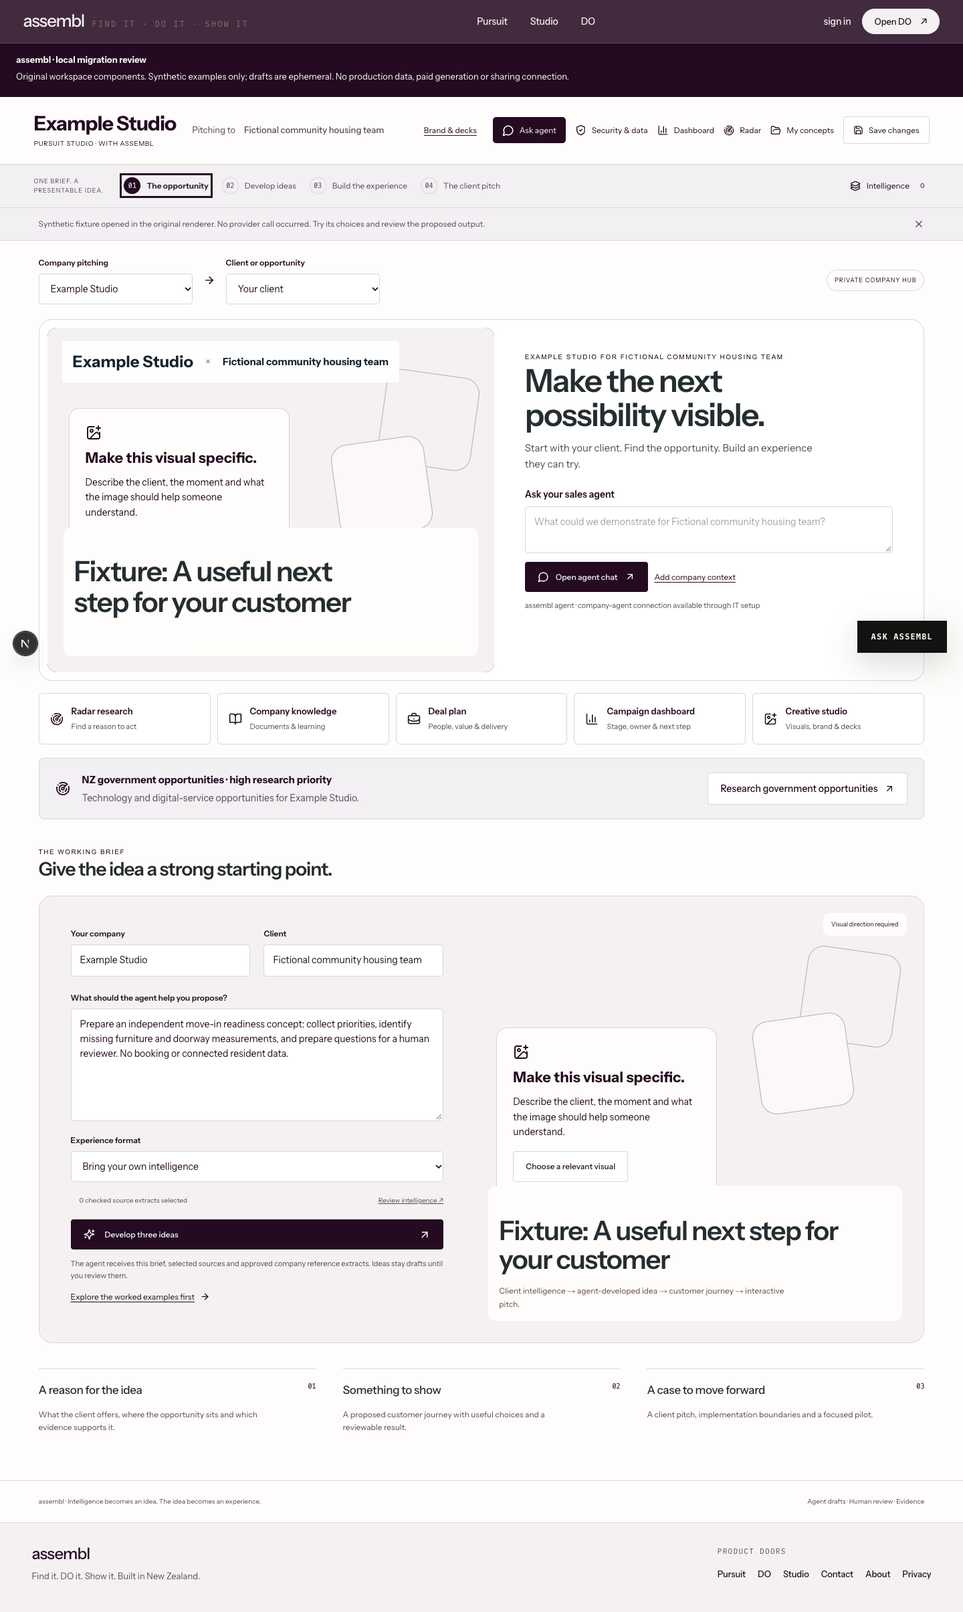
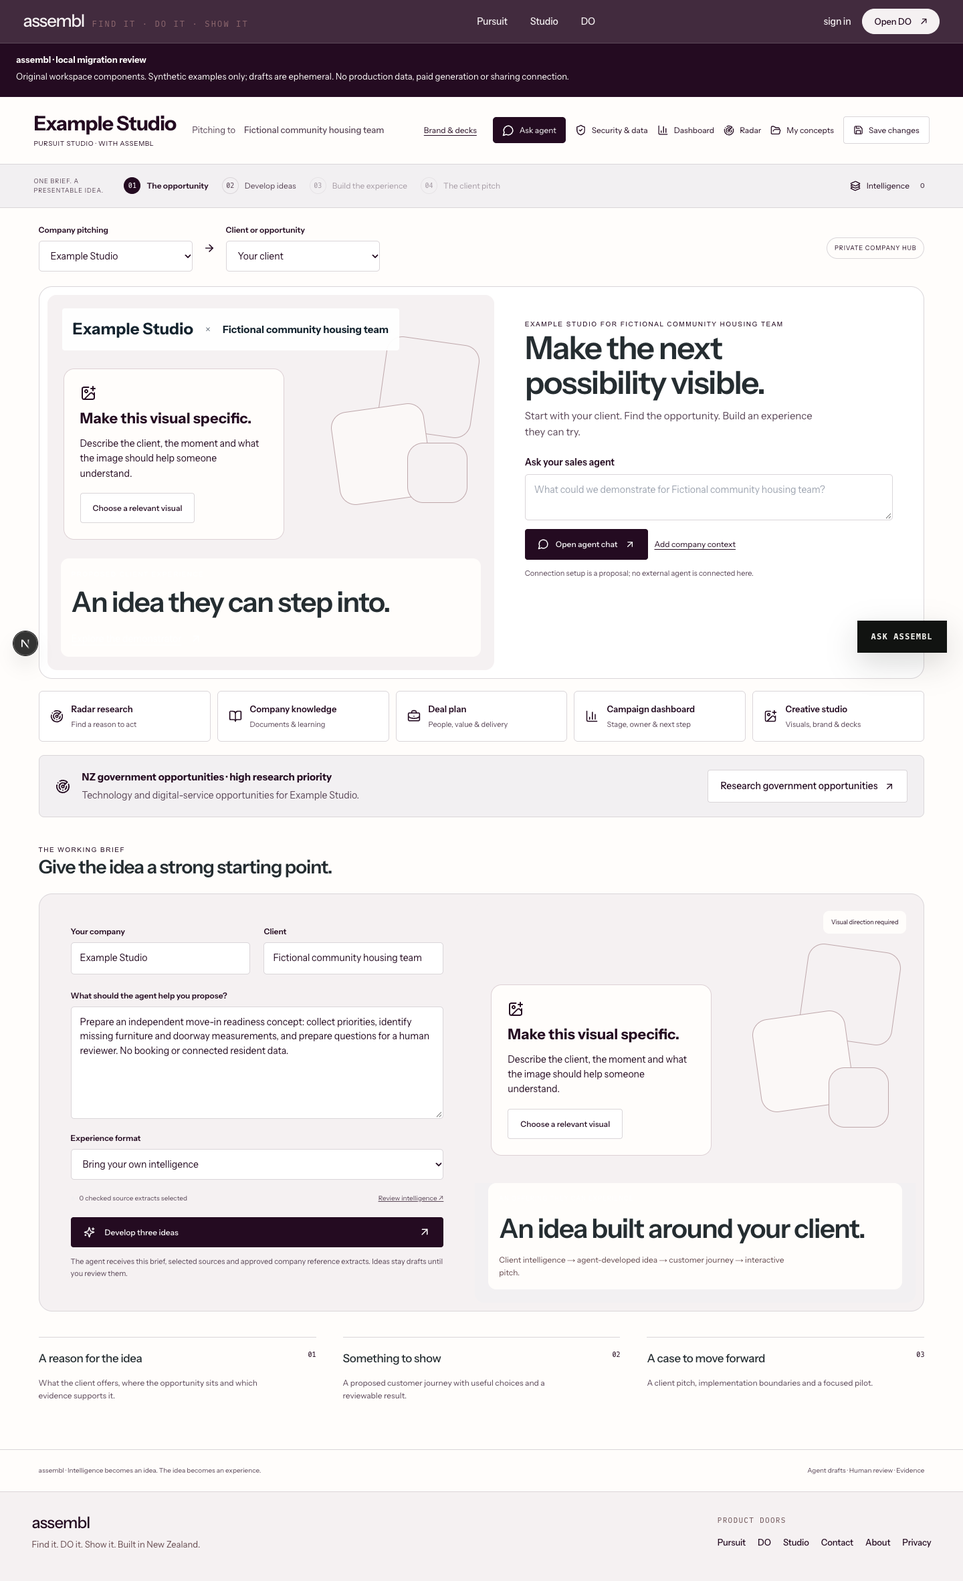
Record audited Studio activation gates and final private visual proof

diff --git a/components/client-hub-migration/original/app/hub/concept-studio.tsx b/components/client-hub-migration/original/app/hub/concept-studio.tsx
@@ -85,7 +85,7 @@ export default function ConceptStudio({localPreview=false,studioCompany,ownerMod
   }catch(x){setError((x as Error).message);}finally{agentLock.current=false;setBusy("");}
  }
  function addOwnerIdea(){const concept=newOwnerIdea(h);engine({...e,concepts:[...e.concepts,concept].slice(-6),selected:concept.id});setStep(2);setCreative("copy");setPanel("creative");setNotice("Your working idea is ready to edit. It is an owner-authored draft, not generated output.");}
- function openExample(concept:Concept){edit(withConcept(h,concept));setStep(2);setNotice(concept.origin==="worked example"?"Worked example opened. Use Build with agent to develop a fresh journey from this concept.":"Agent idea opened in the existing interaction format. Build with agent to write its specific customer journey.");}
+ function openExample(concept:Concept){edit(withConcept(h,concept));setStep(2);setNotice(concept.origin==="owner draft"?"Your owner-authored idea opened in the interactive renderer. No agent call occurred.":concept.origin==="worked example"?"Worked example opened. Use Build with agent to develop a fresh journey from this concept.":"Agent idea opened in the existing interaction format. Build with agent to write its specific customer journey.");}
  async function loadInbox(selected?:string){if(localPreview){setPanel("sources");return;}try{const d=await read<{items:InboxItem[]}>(await fetch("/api/inbox"));setInbox(d.items);setPanel("sources");if(selected){const item=d.items.find(x=>x.id===selected);if(item)importSignal(item,true);else setError("The selected intelligence item is unavailable.");}}catch(x){setError((x as Error).message);}}
  function importSignal(item:InboxItem,asPursuit=false){let old=current.current;if(asPursuit){const target=inboxStartingPoint(item,old.seller);if(studioCompany&&companyIdentity(target.seller)!==companyIdentity(companies[studioCompany].name)){setError("This opportunity belongs to a different company studio.");return;}old=initial(target.sector,target.seller);old.buyer=(item.organisation||"Buyer to confirm").slice(0,120);old.design.buyer=old.buyer;old.name=item.title.slice(0,140);old.sources=[];old.engine={...old.engine!,brief:"",concepts:[],selected:""};setId(undefined);setRevision(0);setStep(0);}const en=old.engine||starterEngine("custom");let sources=old.sources;if(item.sourceUrl&&/^https?:\/\//i.test(item.sourceUrl)&&sources.length<40&&!sources.some(s=>s.url===item.sourceUrl))sources=[...sources,{id:`signal-${item.id}`,title:item.title.slice(0,180),url:item.sourceUrl,claim:(item.summary||item.hypothesis||"Review the source before using the claim.").slice(0,900),status:"inference" as const,checked:"Review needed",include:false}];edit({...old,sources,engine:{...en,brief:(en.brief+"\n\nImported intelligence: "+item.title+"\n"+(item.summary||"")+"\n"+(item.hypothesis||"")).slice(0,6000)},privateNotes:(old.privateNotes+"\n"+item.title+"\n"+(item.summary||"")).slice(0,6000)});setNotice("Intelligence added to this brief. Check the source and mark any verified extract as a source before agent use.");}
  function addSource(){try{const next=hubSchema.parse({...h,sources:[...h.sources,{id:crypto.randomUUID(),title:sourceTitle,url:sourceUrl,claim:sourceClaim,status:"inference",checked:"Review needed",include:false}]});edit(next);setSourceTitle("");setSourceUrl("");setSourceClaim("");}catch{setError("Add a source title, valid web link and a short extract. The limit is 40 sources.");}}
@@ -115,7 +115,7 @@ export default function ConceptStudio({localPreview=false,studioCompany,ownerMod
   {legacy?<section className="cs-content"><h1>Your earlier pursuit is preserved.</h1><p>This draft uses the earlier journey editor. Open it there, or start a new client concept in this studio.</p><div className="cs-actions"><a className="cs-primary" href={`/hub?view=details&id=${id}`}>Open the saved pursuit</a><button className="cs-secondary" onClick={()=>fresh("grocery")}>Start a client concept</button></div></section>:<>
   {step===0&&<section className="cs-content ep-opening">
    <div className="ep-context-picker"><label>Company pitching<select aria-label="Company pitching" hidden={!!studioCompany} value={company} disabled={!!busy} onChange={v=>switchCompany(v.target.value as CompanyKey)}>{(Object.keys(companies) as CompanyKey[]).filter(key=>!ownerMode||key==="custom"||key==="assembl").map(key=><option key={key} value={key}>{key==="custom"&&company==="custom"?h.seller:companies[key].name}</option>)}</select>{studioCompany&&<strong>{companies[studioCompany].name}</strong>}</label><ArrowRight size={18}/><label>Client or opportunity<select aria-label="Client or opportunity" value={e.sector} disabled={!!busy} onChange={v=>switchClient(v.target.value as Sector)}>{availableClients.map(s=><option value={s} key={s}>{clients[s].name}</option>)}</select></label><span className="cs-label">{localPreview?"DEVICE PREVIEW":"PRIVATE COMPANY HUB"}</span></div>
-   <div className="ep-hero"><div className="ep-hero-visual"><ContextVisual onChoose={()=>{setCreative("image");setPanel("creative");}} src={artData||artKey} alt={h.design.frame.artwork?.alt||`Illustrative concept for ${h.buyer}`}/><div className="ep-hero-brand"><strong>{h.seller}</strong><span>×</span>{clientBrand?.logo?<PreviewImage src={clientBrand.logo} alt={h.buyer}/>:<b>{h.buyer}</b>}</div><div className="ep-hero-caption"><small>PROPOSED CLIENT EXPERIENCE</small><h2>{c?.title||e.concepts[0]?.title||"An idea they can step into."}</h2><button onClick={()=>c?setStep(2):e.concepts[0]?openExample(e.concepts[0]):setStep(1)}>Explore the demonstrator <ArrowUpRight size={18}/></button></div></div><div className="ep-hero-agent"><span className="cs-eyebrow">{h.seller} FOR {h.buyer}</span><h1>Make the next<br/>possibility visible.</h1><p>Start with your client. Find the opportunity. Build an experience they can try.</p><label htmlFor="hero-agent">Ask your sales agent</label><textarea id="hero-agent" rows={2} maxLength={6000} value={agentPrompt} onChange={v=>setAgentPrompt(v.target.value)} placeholder={`What could we demonstrate for ${h.buyer}?`}/><div className="cs-actions"><button className="cs-primary" onClick={()=>ownerMode?unavailable():setPanel("agent")}><MessageCircle size={17}/>Open agent chat<ArrowUpRight size={16}/></button><button className="cs-text" onClick={()=>{setLearning("");setPanel("knowledge");}}>Add company context</button></div><small>assembl agent · company-agent connection available through IT setup</small></div></div>
+   <div className="ep-hero"><div className="ep-hero-visual"><ContextVisual onChoose={()=>{setCreative("image");setPanel("creative");}} src={artData||artKey} alt={h.design.frame.artwork?.alt||`Illustrative concept for ${h.buyer}`}/><div className="ep-hero-brand"><strong>{h.seller}</strong><span>×</span>{clientBrand?.logo?<PreviewImage src={clientBrand.logo} alt={h.buyer}/>:<b>{h.buyer}</b>}</div><div className="ep-hero-caption"><small>PROPOSED CLIENT EXPERIENCE</small><h2>{c?.title||e.concepts[0]?.title||"An idea they can step into."}</h2><button onClick={()=>c?setStep(2):e.concepts[0]?openExample(e.concepts[0]):setStep(1)}>Explore the demonstrator <ArrowUpRight size={18}/></button></div></div><div className="ep-hero-agent"><span className="cs-eyebrow">{h.seller} FOR {h.buyer}</span><h1>Make the next<br/>possibility visible.</h1><p>Start with your client. Find the opportunity. Build an experience they can try.</p><label htmlFor="hero-agent">Ask your sales agent</label><textarea id="hero-agent" rows={2} maxLength={6000} value={agentPrompt} onChange={v=>setAgentPrompt(v.target.value)} placeholder={`What could we demonstrate for ${h.buyer}?`}/><div className="cs-actions"><button className="cs-primary" onClick={()=>ownerMode?unavailable():setPanel("agent")}><MessageCircle size={17}/>Open agent chat<ArrowUpRight size={16}/></button><button className="cs-text" onClick={()=>{setLearning("");setPanel("knowledge");}}>Add company context</button></div><small>Connection setup is a proposal; no external agent is connected here.</small></div></div>
    <nav className="ep-hub-tools" aria-label="Company hub tools"><button onClick={()=>{setProcurementOnly(false);setPanel("radar");}}><Radar size={20}/><span>Radar research<small>Find a reason to act</small></span></button><button onClick={()=>{setLearning("");setPanel("knowledge");}}><BookOpen size={20}/><span>Company knowledge<small>Documents & learning</small></span></button><button onClick={()=>setPanel("deal")}><BriefcaseBusiness size={20}/><span>Deal plan<small>People, value & delivery</small></span></button><button onClick={()=>ownerMode?unavailable():setPanel("dashboard")}><BarChart3 size={20}/><span>Campaign dashboard<small>Stage, owner & next step</small></span></button><button onClick={()=>{setCreative("image");setPanel("creative");}}><ImagePlus size={20}/><span>Creative studio<small>Visuals, brand & decks</small></span></button></nav>
    <div className="cs-procurement-priority ep-government"><Radar size={22}/><div><b>NZ government opportunities · high research priority</b><p>{construction?"Construction and school property opportunities for ":"Technology and digital-service opportunities for "}{h.seller}.</p></div><button className="cs-secondary" onClick={()=>{setProcurementOnly(true);setRadarHint("");setPanel("radar");}}>Research government opportunities<ArrowUpRight size={16}/></button></div>
    <div className="ep-brief-heading"><span className="cs-eyebrow">THE WORKING BRIEF</span><h2>Give the idea a strong starting point.</h2></div>

diff --git a/app/review/client-hub/review.css b/app/review/client-hub/review.css
@@ -45,3 +45,11 @@
   .client-hub-migration-review .cs-rail nav button { flex: none; }
   .client-hub-migration-review .cs-intel { order: 0; margin-left: auto; flex: none; max-width: 100%; }
 }
+/* Prompt controls and the original caption must occupy separate layout space. */
+.client-hub-migration-review .ep-hero-visual:has(> .context-visual-prompt),
+.client-hub-migration-review .cs-inspiration:has(> .context-visual-prompt) { display: flex; flex-direction: column; }
+.client-hub-migration-review .ep-hero-visual > .context-visual-prompt,
+.client-hub-migration-review .cs-inspiration > .context-visual-prompt { flex: 1; height: auto; min-height: 0; padding: 110px 24px 28px; }
+.client-hub-migration-review .ep-hero-visual:has(.context-visual-prompt) .ep-hero-caption,
+.client-hub-migration-review .cs-inspiration:has(.context-visual-prompt) .cs-inspiration-caption { position: relative; left: auto; right: auto; bottom: auto; margin: 0 20px 20px; }
+.client-hub-migration-review .ep-hero-visual:has(> .context-visual-prompt) { background: #F5F1F2; }

diff --git a/components/client-hub-migration/original/lib/pursuit-companies.ts b/components/client-hub-migration/original/lib/pursuit-companies.ts
@@ -11,9 +11,9 @@ export const companies = {
 export type CompanyKey=keyof typeof companies;
 export function companyKey(name:string):CompanyKey {
  if(/^assembl(?:\s|$)/i.test(name.trim()))return "assembl";
- if(/^sap(?:\s|$)/i.test(name.trim()))return "sap";
- if(/^hawkins(?:\s|$)/i.test(name.trim()))return "hawkins";
- if(/^southbase(?:\s|$)/i.test(name.trim()))return "southbase";
+ if(/^(?:sap(?:\s|$)|Example Technology Studio$)/i.test(name.trim()))return "sap";
+ if(/^(?:hawkins(?:\s|$)|Example Construction Studio$)/i.test(name.trim()))return "hawkins";
+ if(/^(?:southbase(?:\s|$)|Example Project Studio$)/i.test(name.trim()))return "southbase";
  return "custom";
 }
 export function clientSectors(seller:string, focus?:ResearchFocus):readonly Sector[]{

diff --git a/docs/migration-review/validation.md b/docs/migration-review/validation.md
@@ -2,7 +2,7 @@
 
 - Frozen isolated dependency install and canvas package build: passed. No parent dependency tree or original checkout changed.
 - Full TypeScript check: passed after final visual/mobile changes (`pnpm typecheck`).
-- Relevant Vitest: **9 passed**. Covers original schema/revision/memory behaviour, no native transport fallback, original renderer/private sentinel exclusion, recipient identity/scope/status/expiry and local-review gates, unavailable recipient endpoint, custom-image rejection and illustration/media provenance.
+- Relevant Vitest: **16 passed** (9 renderer/review/access tests plus7 owner API/policy tests). Covers original schema/revision/memory behaviour, no native transport fallback, original renderer/private sentinel exclusion, recipient identity/scope/status/expiry and local-review gates, unavailable recipient endpoint, custom-image rejection and illustration/media provenance.
 - Scoped ESLint across all copied components, new library, review UI and recipient API: **zero errors/warnings**. No global rules disabled. One narrow documented native-image exception supports private/blob/canvas previews without an optimisation proxy.
 - Brand/front-door/macron guards passed on final rerun. Diff whitespace check passed.
 - Development route HTTP200; actual ConceptStudio dependency closure. Recipient API404/private,no-store.
@@ -22,8 +22,18 @@ Separate headless `hub-migration` session against loopback only. Signed-in Chrom
 - Pointer clicks in the automation session did not always settle the requested state; keyboard navigation was confirmed. Full pointer/touch and reduced-motion acceptance remain open.
 - Final evidence: `evidence/desktop-final-opportunity.png`, `evidence/mobile-final-prepared.png`. Earlier screenshots are intermediate evidence, including the old mobile overflow; they are not final acceptance images. Full-page capture of the mobile prepared state places the sticky main navigation at its current scroll position.
 
+## Owner persistence and database proof
+
+The owner route/API are off by default. New empty drafts and owner-authored ideas are implemented; no deterministic fixture agent is used on this path. Actual disabled owner and recipient HTTP endpoints returned404 locally. Same-origin writes, verified-session allowlist, strict payload validation and conflict handling have7 unit/API tests. The existing session is mocked for API tests; no real owner account acceptance is claimed.
+
+Final unapplied SQL/storage proposals passed in a no-network temporary Postgres17 container with synthetic auth identities and mock storage.objects. Tests cover create/update, optimistic conflict, owner-only draft visibility, separate recipient projection, private sentinel exclusion, selected-object membership, wrong user, immutable grant access, revocation, expiry and anonymous denial. Composite foreign keys bind snapshot/media ownership. This proves local database rules, not actual Supabase Storage delivery or cookie/session behaviour. Container stopped after tests; no production changes.
+
 ## Production build and release blockers
 
-Prior Turbopack build failed in existing Google-font generation; prior webpack alternative failed at unchanged Spline root import. Both attempts ended. Parent reports dedicated font repair has two clean builds, with patch pending CI. This branch has not yet consumed/reverified that patch. **No production build active here.** Only isolated dev server3187 and headless browser run. Await the allocated shared build slot; do not claim production build acceptance.
+Approved main/font commit `dd241e532519f00094a221d094a584840544ca06` reconciled at merge `9bd0d1f139e2721196ca53573bd5bcea55c453d5`. The single authorised `pnpm build` passed preliminary brand/front-door/canvas steps, then stalled at Turbopack compilation for over8 minutes with no new error. Process was sleeping at0% CPU, no visible child/TCP connection; one-second sample showed waiting threads. Stopped that attempt (exit130), releasing slot. Cause unresolved; do not label it a font regression or a production build pass. Log `/tmp/hub-migration-build-approved-font.log`; sample `/tmp/hub-migration-build-sample.log`.
 
-No reconciled deployed Site source, production records/media transfer, authoritative authenticated persistence, live paid image output or recipient grant/media isolation proof. Confidential presets in client bundles need audit before deployment. Keep original Site working; no real-content cutover or sharing authorised by fixture success.
+Default-sandbox dev listen separately failed EPERM; the same isolated loopback dev server worked with approved escalation. This identifies an environment constraint, but does not establish the stalled build’s cause. A coordinated build in the supported execution context remains required; no uncoordinated second build started.
+
+Post-merge full TypeScript,16 tests and scoped lint pass. Final desktop1440/mobile375 screenshots show fictional opportunity data and rounded neutral visual prompts. Caption controls do not overlap; mobile scrollWidth375 and no broken images. Current Library versions1 retain the original IDs. Mobile filename `mobile-final-prepared.png` is retained for identity; current version shows the opportunity view. Earlier git version retains prepared-draft proof.
+
+Confidential-source audit and emitted development review-chunk check exclude Adrian/prospect pitch text. Production chunk review remains blocked by the incomplete build. No reconciled deployed Site export, production-record transfer, applied owner schema, activated real-account persistence, live paid image output or recipient grant/media delivery proof. Original Site remains unchanged. No production build active at completion.

diff --git a/docs/migration-review/README.md b/docs/migration-review/README.md
@@ -5,7 +5,7 @@
 ## Identity and provenance
 
 - Target repo: `katecoveny-svg/assemblnz-f0afd79d`; local branch `review/client-hub-migration`.
-- Initial target baseline: `beab36a512422a6c4571e78c5dad797d76d6f04a`. Current production main `106adfb9a6a9469d86c7d5942d97171ebb9f595b` (including PR1432) was merged into this isolated branch; no DO/source implementation changes are made here.
+- Initial target baseline: `beab36a512422a6c4571e78c5dad797d76d6f04a`. Current approved main `dd241e532519f00094a221d094a584840544ca06` (including font PR1441 and preceding production work) was merged into this isolated branch; no DO/source implementation changes are made here.
 - Original Site: `appgprj_6aa356a9700081919f7959cc70c9f6d8`, Sep14 checkout, commit `f9c752ed5d5107ebac9f675aa6d14bce116c01c1`.
 - The 58 copied dependency files are inventoried with original SHA256 and byte sizes in `source-inventory.json`. This is an archival checkout plus five local modifications, **not a reconciled export of today's deployed version**.
 - `dirty-source-hashes.json` covers all five modified original files. The original checkout, environment and data are untouched. No credentials or production records were copied.
@@ -48,3 +48,11 @@ Company and client fields can be edited for arbitrary briefs. Intelligence-linke
 ## Reusable boundary
 
 Uses the original Studio renderer/board/brand contracts and existing main UI/auth/provider foundations. Creates a temporary fixture transport and a reusable pure recipient policy. Extends no DO or source-ingestion implementation. A grant policy is necessary but does not replace authoritative server lookup/RLS or prove live access protection.
+
+## New empty owner-workspace stage
+
+`/studio/workspace` and `/api/client-hub-migration/owner` are implemented but off by default. They start with no client records or fixture ideas; owner-authored ideas use the original editor/renderer. The existing verified cookie session, exact user allowlist, original payload validation, same-origin/no-store API and security-invoker optimistic-save RPC define the boundary. The SQL proposal is separately reviewed and unapplied; no production credentials, grants, media or old data are connected. See `owner-activation-plan.md` and `confidential-preset-audit.md`.
+
+Owner API/unit tests:7 additional passes, total16. Actual synthetic Postgres RLS/RPC/storage-membership tests pass; production cookie/storage/account proof is outstanding. Sharing and backup import are disabled on the new owner stage.
+
+Two representative fictional screenshots are saved privately to Library: desktop `libfile_01a8d6a02020819193acd0b03b1b75b1`, mobile `libfile_9e270a16870c8191b3b53965b5aee473`, both version1. These show the fixture review, not an activated live owner account.

diff --git a/docs/migration-review/evidence/README.md b/docs/migration-review/evidence/README.md
@@ -1,5 +1,7 @@
 # Synthetic local review evidence
 
-Use only desktop-final-opportunity.png and mobile-final-prepared.png as the current inspected checkpoint. Both contain fictional review data, not private client records. The mobile full-page image captures a sticky main navigation at its current scroll position; actual document width measured375 at375 viewport.
+Current desktop-final-opportunity.png and mobile-final-prepared.png both show the opportunity view with fictional Example Studio/Fictional community housing team values. The mobile filename is retained for Library identity; its current version1 shows the opportunity, and earlier git/Library version0 retains the prepared-draft screenshot.
 
-Other local screenshots are intermediate diagnostics and are intentionally not committed as release proof. Keyboard interaction is confirmed; some headless pointer actions did not settle and pointer/touch acceptance remains open. No file download/share/provider action was exercised.
+Desktop1440 and mobile375 were pixel-inspected. Prompt controls and captions occupy separate layout space. Mobile document width375, no broken images or overlap. No original private client records, account/browser tabs or personal data. These are fixture-review screenshots, not activated owner-session proof.
+
+Keyboard journey preparation and board movement were confirmed earlier; some headless pointer actions did not settle and full pointer/touch/reduced-motion acceptance remains open. No file download/share/provider action exercised. Intermediate local screenshots are diagnostic and not committed as release proof.

diff --git a/docs/migration-review/PR-DRAFT.md b/docs/migration-review/PR-DRAFT.md
@@ -7,3 +7,5 @@ The review uses explicit synthetic, memory-only adapters that fail closed for un
 Validation: full TypeScript, scoped lint0/0 and9 targeted tests pass. Headless desktop/mobile proof confirms editable arbitrary-client fields, keyboard board movement, consent-gated editable journey output and375px without horizontal overflow. Production build awaits the coordinated font patch/build slot. Pointer/touch, reduced motion, production storage, deployed-source reconciliation and live recipient/media isolation remain required.
 
 This is a review checkpoint, not production cutover. No original source/data altered, credentials copied, DB migration applied, paid provider invoked or recipient grant issued. Keep original Site available. Audit confidential presets before any public bundle ships.
+
+A second, disabled-by-default stage implements a new empty owner workspace without waiting for legacy-data import. The owner can author/edit an idea and save/reopen through verified existing sign-in, an exact activation allowlist and an optimistic revision RPC. No service-role bypass. Separate SQL/storage proposals remain unapplied. Seven additional tests pass (16 total), and isolated no-network Postgres verifies actual owner/recipient/media RLS, revision conflicts, expiry and revocation. Named prospect presets and stale connection claims are sanitised in the port. Real-account acceptance and publication remain gated.

diff --git a/docs/migration-review/confidential-preset-audit.md b/docs/migration-review/confidential-preset-audit.md
@@ -10,4 +10,6 @@ Retained named buyer examples (travel, retail, procurement etc.) are independent
 
 Old security-panel claims about Sites sign-in, active research, unlisted sharing and connected providers were replaced with the actual staged port boundary. Sharing actions remain disabled; all unknown provider/upload/grant calls fail closed. New drafts use server-verified assembl identity and owner RLS only after activation; no owner payload is returned by recipient routes.
 
+The emitted development review chunk was checked and excluded the person/prospect pitch strings. Production compilation did not finish, so that narrower emitted-bundle check is not production acceptance.
+
 Before production release: inspect built client chunks for excluded prospect text and ensure no archived screenshot/source path/account metadata is bundled. Authorised old-record import and media reconciliation remain separate decisions. Do not import an owner backup containing old client material under this activation plan.
